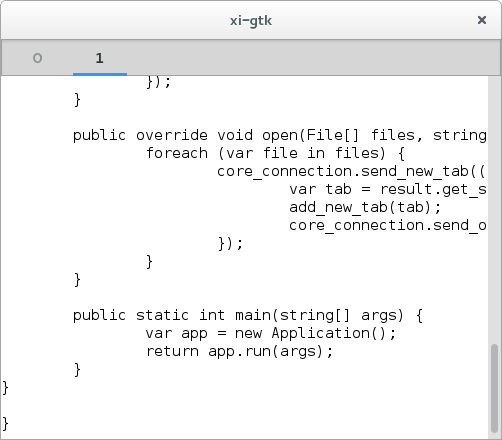
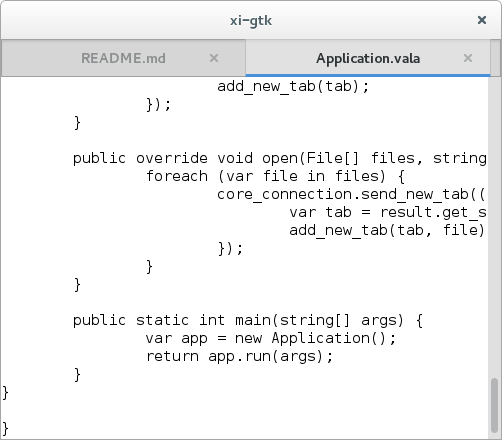
make the tabs closeable

diff --git a/README.md b/README.md
@@ -11,4 +11,5 @@
 - [ ] follow the cursor (respect the `scrollto` parameter)
 - [ ] undo / redo
 - [ ] copy / paste
+- [ ] i18n
 - [ ] preferences (font family, font size, etc.)
